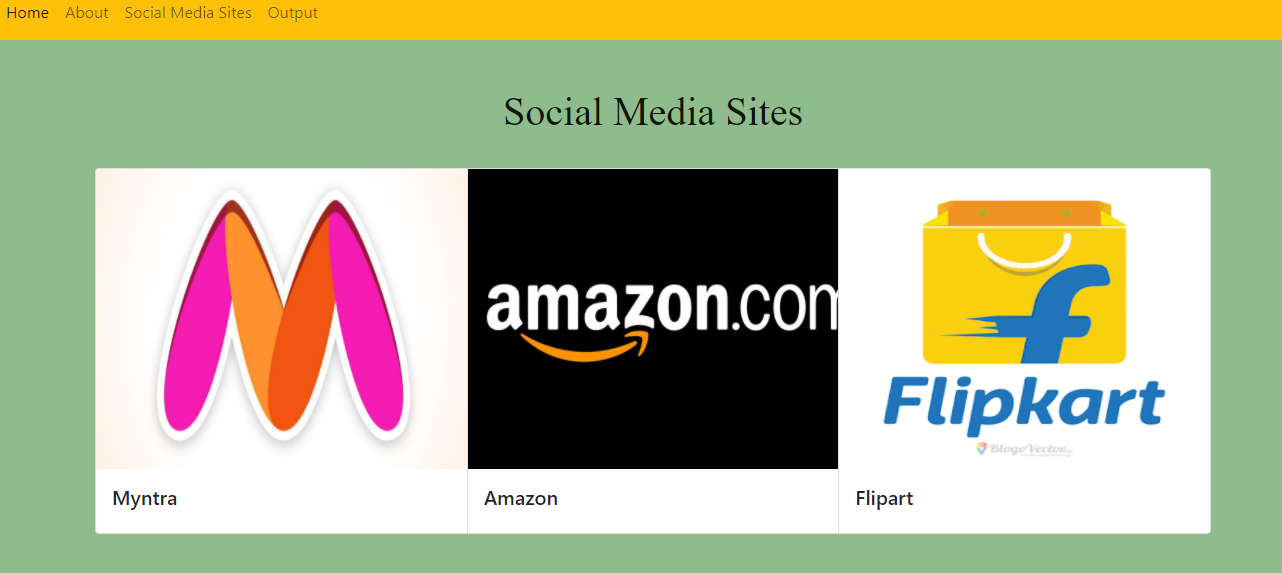
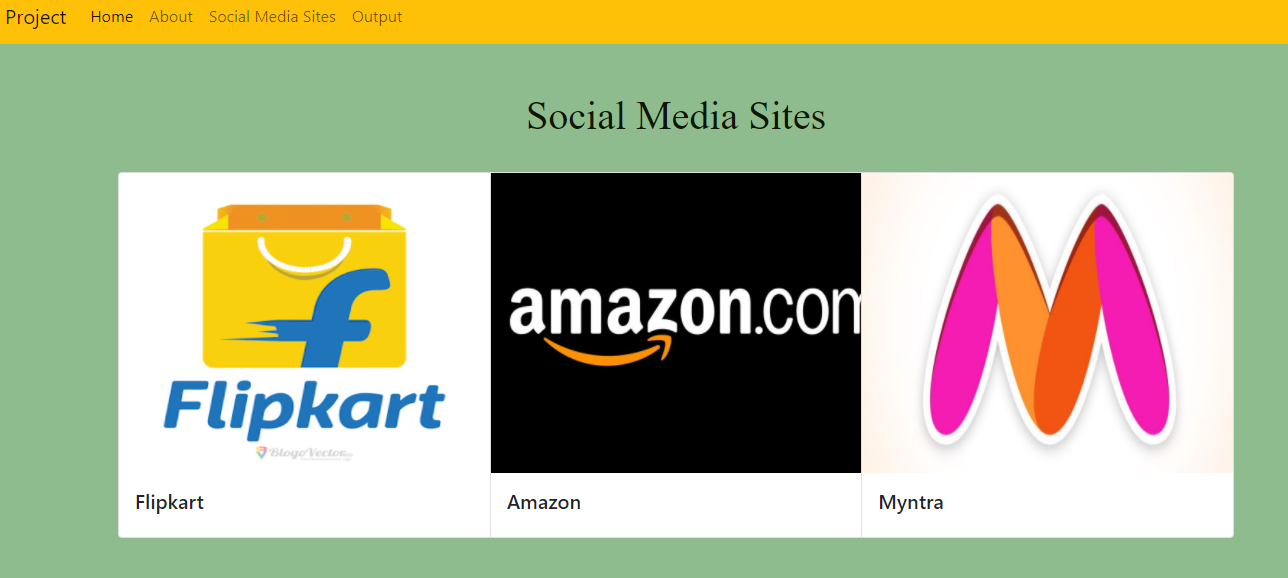
site ready for use

diff --git a/media.php b/media.php
@@ -41,6 +41,20 @@
         <div class="row">
             <div class="col col-12 col-sm-12 col-m-12">
                 <div class="card-group">
+                <div class="card">
+                      <img src="images\simg6.png"  height="300" width="80" class="card-img-top" alt="...">
+                      <div class="card-body">
+                        <h5 class="card-title">Flipkart</h5>
+                        
+                      </div>
+                    </div>
+                   
+                    <div class="card">
+                      <img src="images\simg7.jpg"  height="300" width="80" class="card-img-top" alt="...">
+                      <div class="card-body">
+                        <h5 class="card-title">Amazon</h5>
+                        </div>
+                    </div>
                     <div class="card">
                       <img src="images\simg8.jpg" height="300" width="80" class="card-img-top" alt="...">
                       <div class="card-body">
@@ -49,19 +63,7 @@
                         
                       </div>
                     </div>
-                    <div class="card">
-                      <img src="images\simg7.jpg"  height="300" width="80" class="card-img-top" alt="...">
-                      <div class="card-body">
-                        <h5 class="card-title">Amazon</h5>
-                        </div>
-                    </div>
-                    <div class="card">
-                      <img src="images\simg6.png"  height="300" width="80" class="card-img-top" alt="...">
-                      <div class="card-body">
-                        <h5 class="card-title">Flipart</h5>
-                        
-                      </div>
-                    </div>
+                   
                   </div>
                 
             </div>

diff --git a/index.php b/index.php
@@ -38,7 +38,7 @@
             <div class="col col-12 col-sm-12 col-m-2 col-lg-2"></div>
             <div class="col col-12 col-sm-12 col-m-8 col-lg-8">
                 <br>
-                <h1 class="h1">CUSTOMER SATISFACTION AMONG EBYIS</h1>
+                <h1 class="h1">CUSTOMER SATISFACTION AMONG E-BUYERS</h1>
                 <div id="carouselExampleFade" class="carousel slide carousel-fade" data-bs-ride="carousel">
                     <div class="carousel-inner">
                       <div class="carousel-item active">
